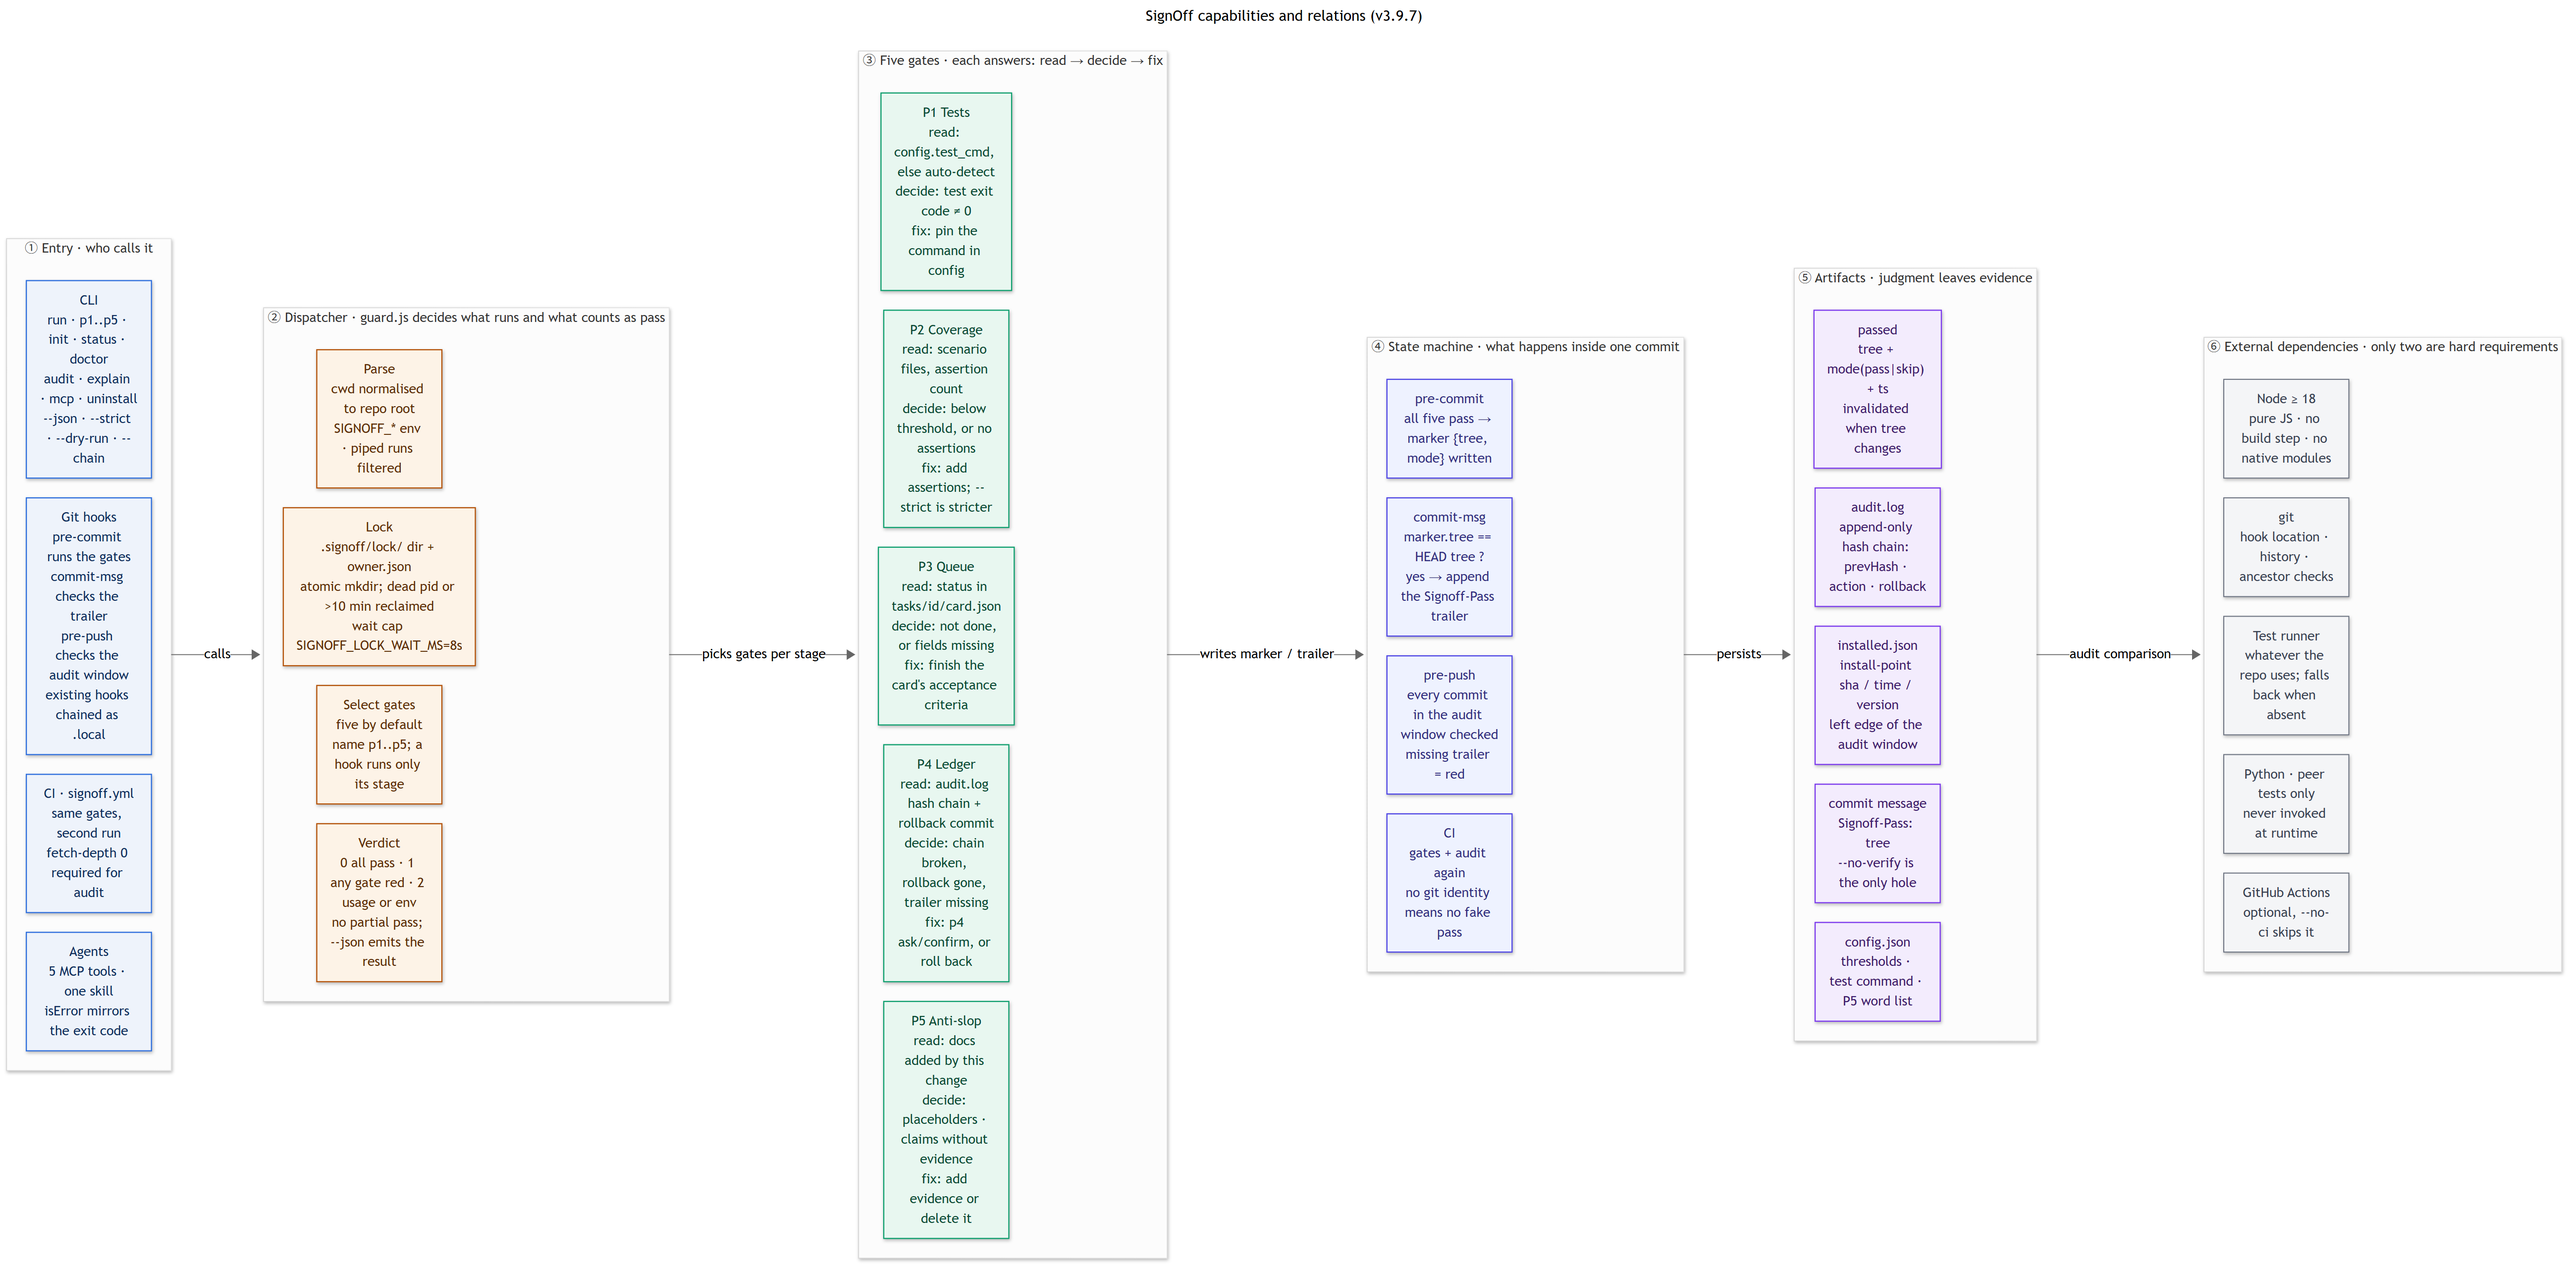
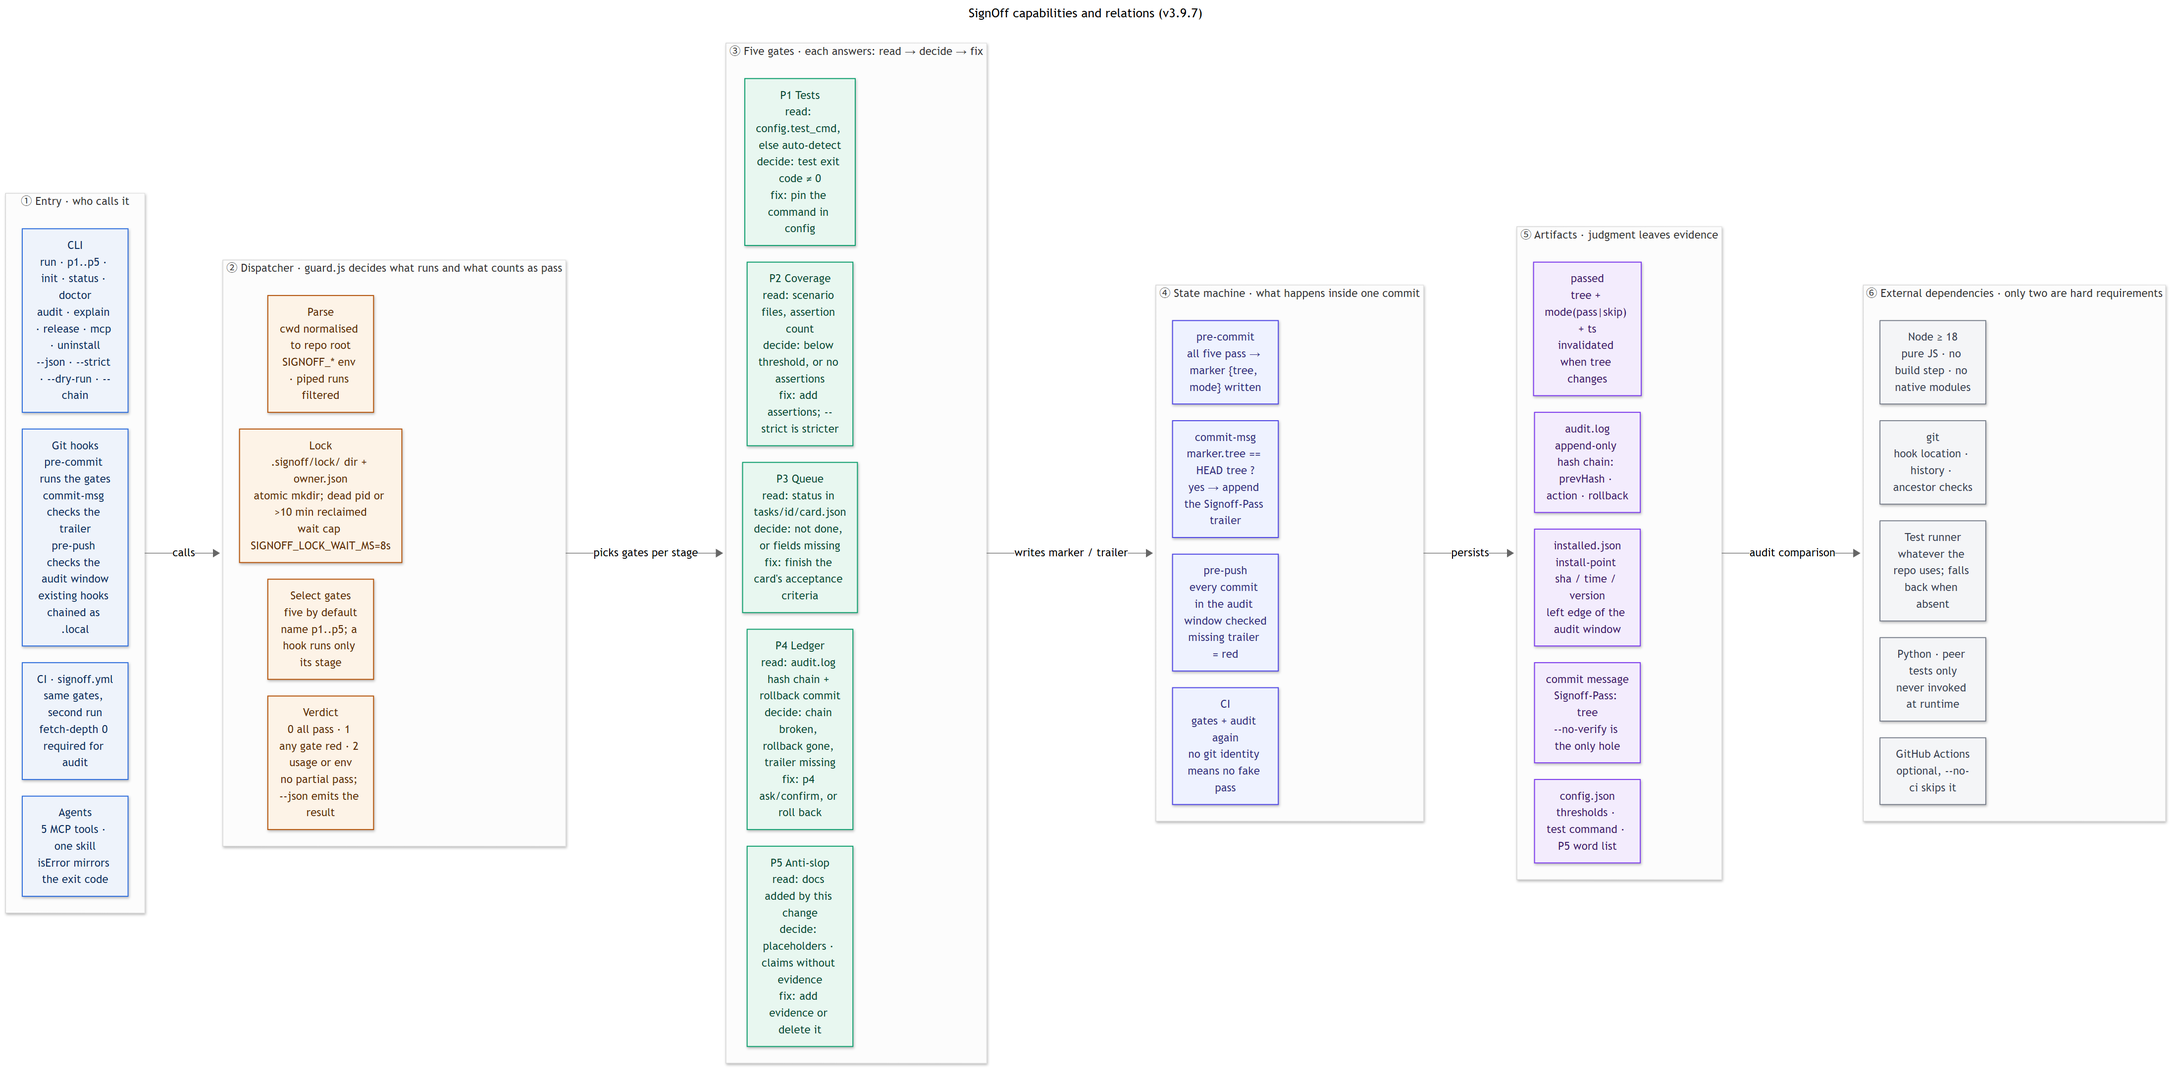
docs: align the bilingual guides with the rename and the release gate (4.1.3) Signoff-Pass: ab2e236c53af

diff --git a/CHANGELOG.md b/CHANGELOG.md
@@ -1,3 +1,13 @@
+## 4.1.3
+
+**中英文说明文档对齐 4.1.x 的事实。**
+
+- README 中英双语：包名/仓库名口径统一（`signoff-cli`，仓库 4.1.0 起改名、老地址 301）；五关的承诺旁边
+  写明"发版另加第六道 `signoff release`"；发布闸门章节移到各自语言的正文里（原先挂在 License 之后）。
+- 能力图（中/英）的 CLI 入口补上 `release`，两张图重新渲染。
+- `docs/integrations.md` 的注册表名改为 `io.github.ayuanxx-max/signoff-cli`，并标注旧条目的 3.9.4 指向问题。
+- `integrations/mcp/README.md` 说明 4.1.2 起 `integrations/` 随包发布，`signoff mcp` 安装后即可用。
+
 ## 4.1.2
 
 **新增 `signoff release`：闸门第一次覆盖到"发布物"，它第一次运行就抓到一个真缺陷。**

diff --git a/docs/integrations.md b/docs/integrations.md
@@ -55,4 +55,10 @@ signoff init --editor vscode
 
 ## MCP
 
-`io.github.ayuanxx-max/signoff` 已在 MCP Registry，可被支持 MCP 的客户端直接调用。
+`io.github.ayuanxx-max/signoff-cli` 已在 MCP Registry（4.1.0 随仓库改名迁移），可被支持 MCP 的客户端直接调用。
+旧条目 `io.github.ayuanxx-max/signoff` 冻结在 4.0.2，其 3.9.4–3.15.3 历史条目都指向 npm 包 3.9.4，别再按它装。
+
+
+- `signoff release --pre|--post`：发布闸门。`--pre` 打包、装进临时目录、跑 `--version`、完成 `mcp` 握手；
+  `--post` 核 npm latest、注册表 `isLatest` / `packages[].version`、README 图链。4.1.2 起 `integrations/`
+  随包发布，`signoff mcp` 从安装态即可用（此前是 `MODULE_NOT_FOUND`）。

diff --git a/integrations/mcp/README.md b/integrations/mcp/README.md
@@ -26,3 +26,9 @@ Smoke test without an MCP client:
 printf '%s\n' '{"jsonrpc":"2.0","id":1,"method":"initialize","params":{}}' \
   '{"jsonrpc":"2.0","id":2,"method":"tools/list"}' | node integrations/mcp/server.js
 ```
+
+
+`signoff release --pre|--post` guards the artifact itself: it packs the tarball, installs it into a
+temporary directory, runs `--version`, and completes an `mcp` initialize handshake (`--post` then checks
+npm, the registry entry and README links). Since 4.1.2 `integrations/` ships inside the npm package, so
+`signoff mcp` works from any installed copy - before that it was `MODULE_NOT_FOUND`.

diff --git a/integrations/skill/SKILL.md b/integrations/skill/SKILL.md
@@ -53,3 +53,5 @@ rewrites the hooks and the recorded version.
 
 Report the gate ids and their verdicts, plus the exact command that produced them.
 "Tests pass" without the gate output is not a report; `signoff run` exiting 0 is.
+
+- `signoff release --pre|--post` — 发布闸门：打包、装到临时目录、`--version`、`mcp` 握手；发布后核 npm/注册表/README 链接。- 4.1.2 起 `integrations/` 打进 npm 包，`signoff mcp` 从安装态可直接用。
